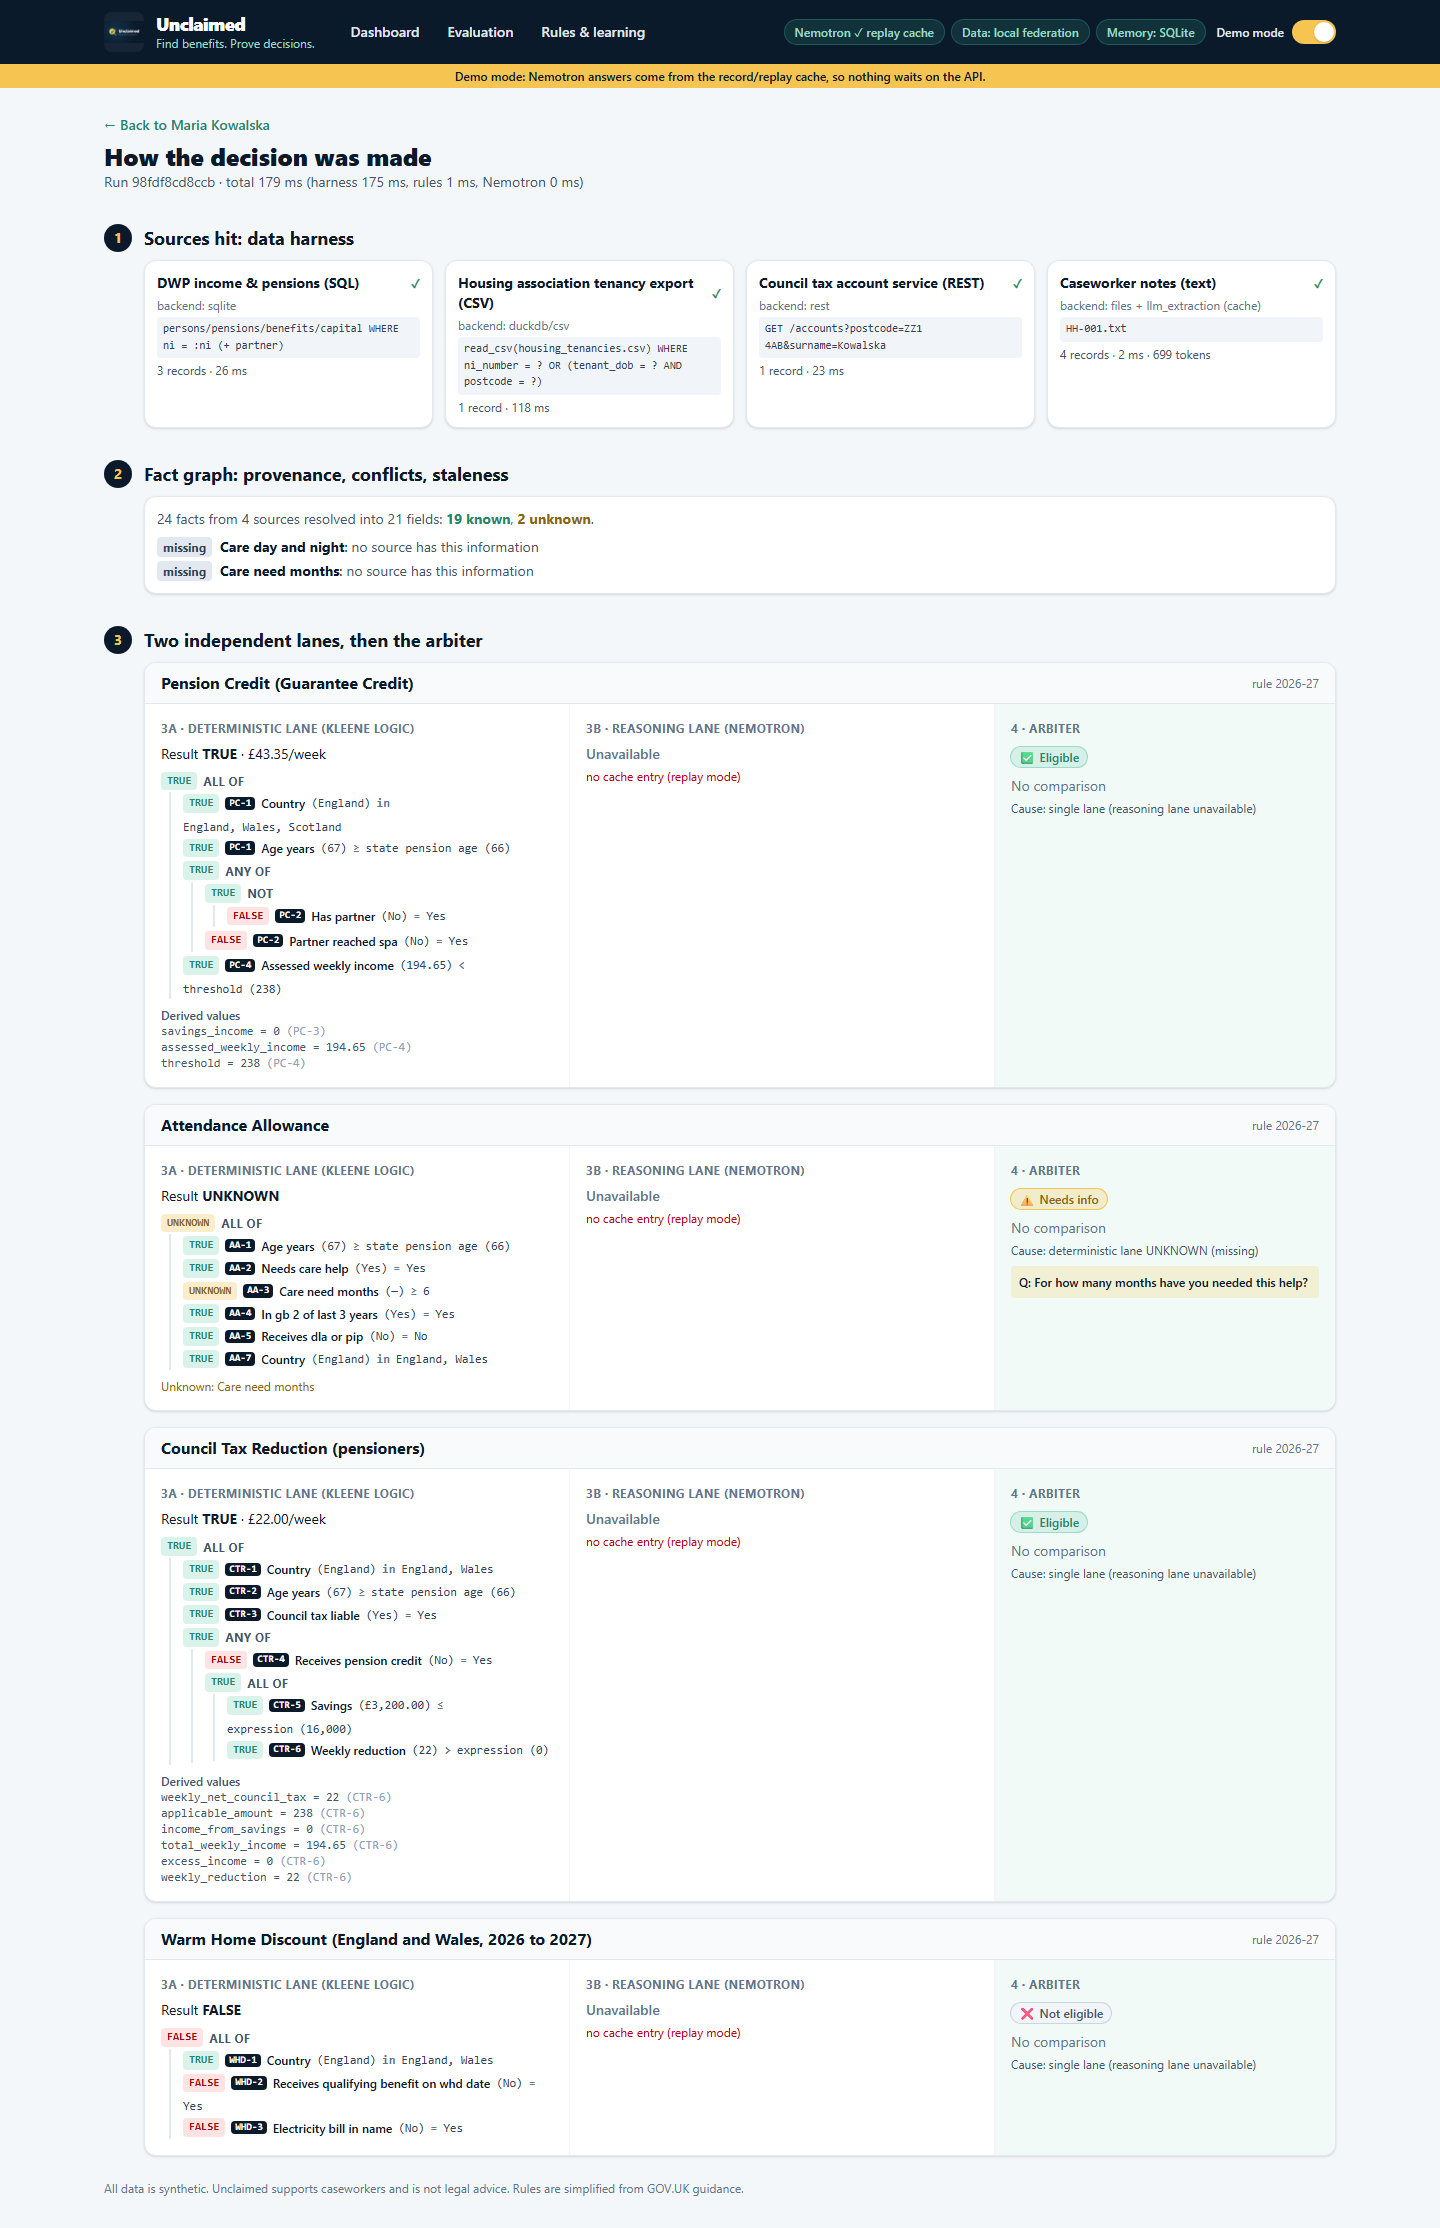
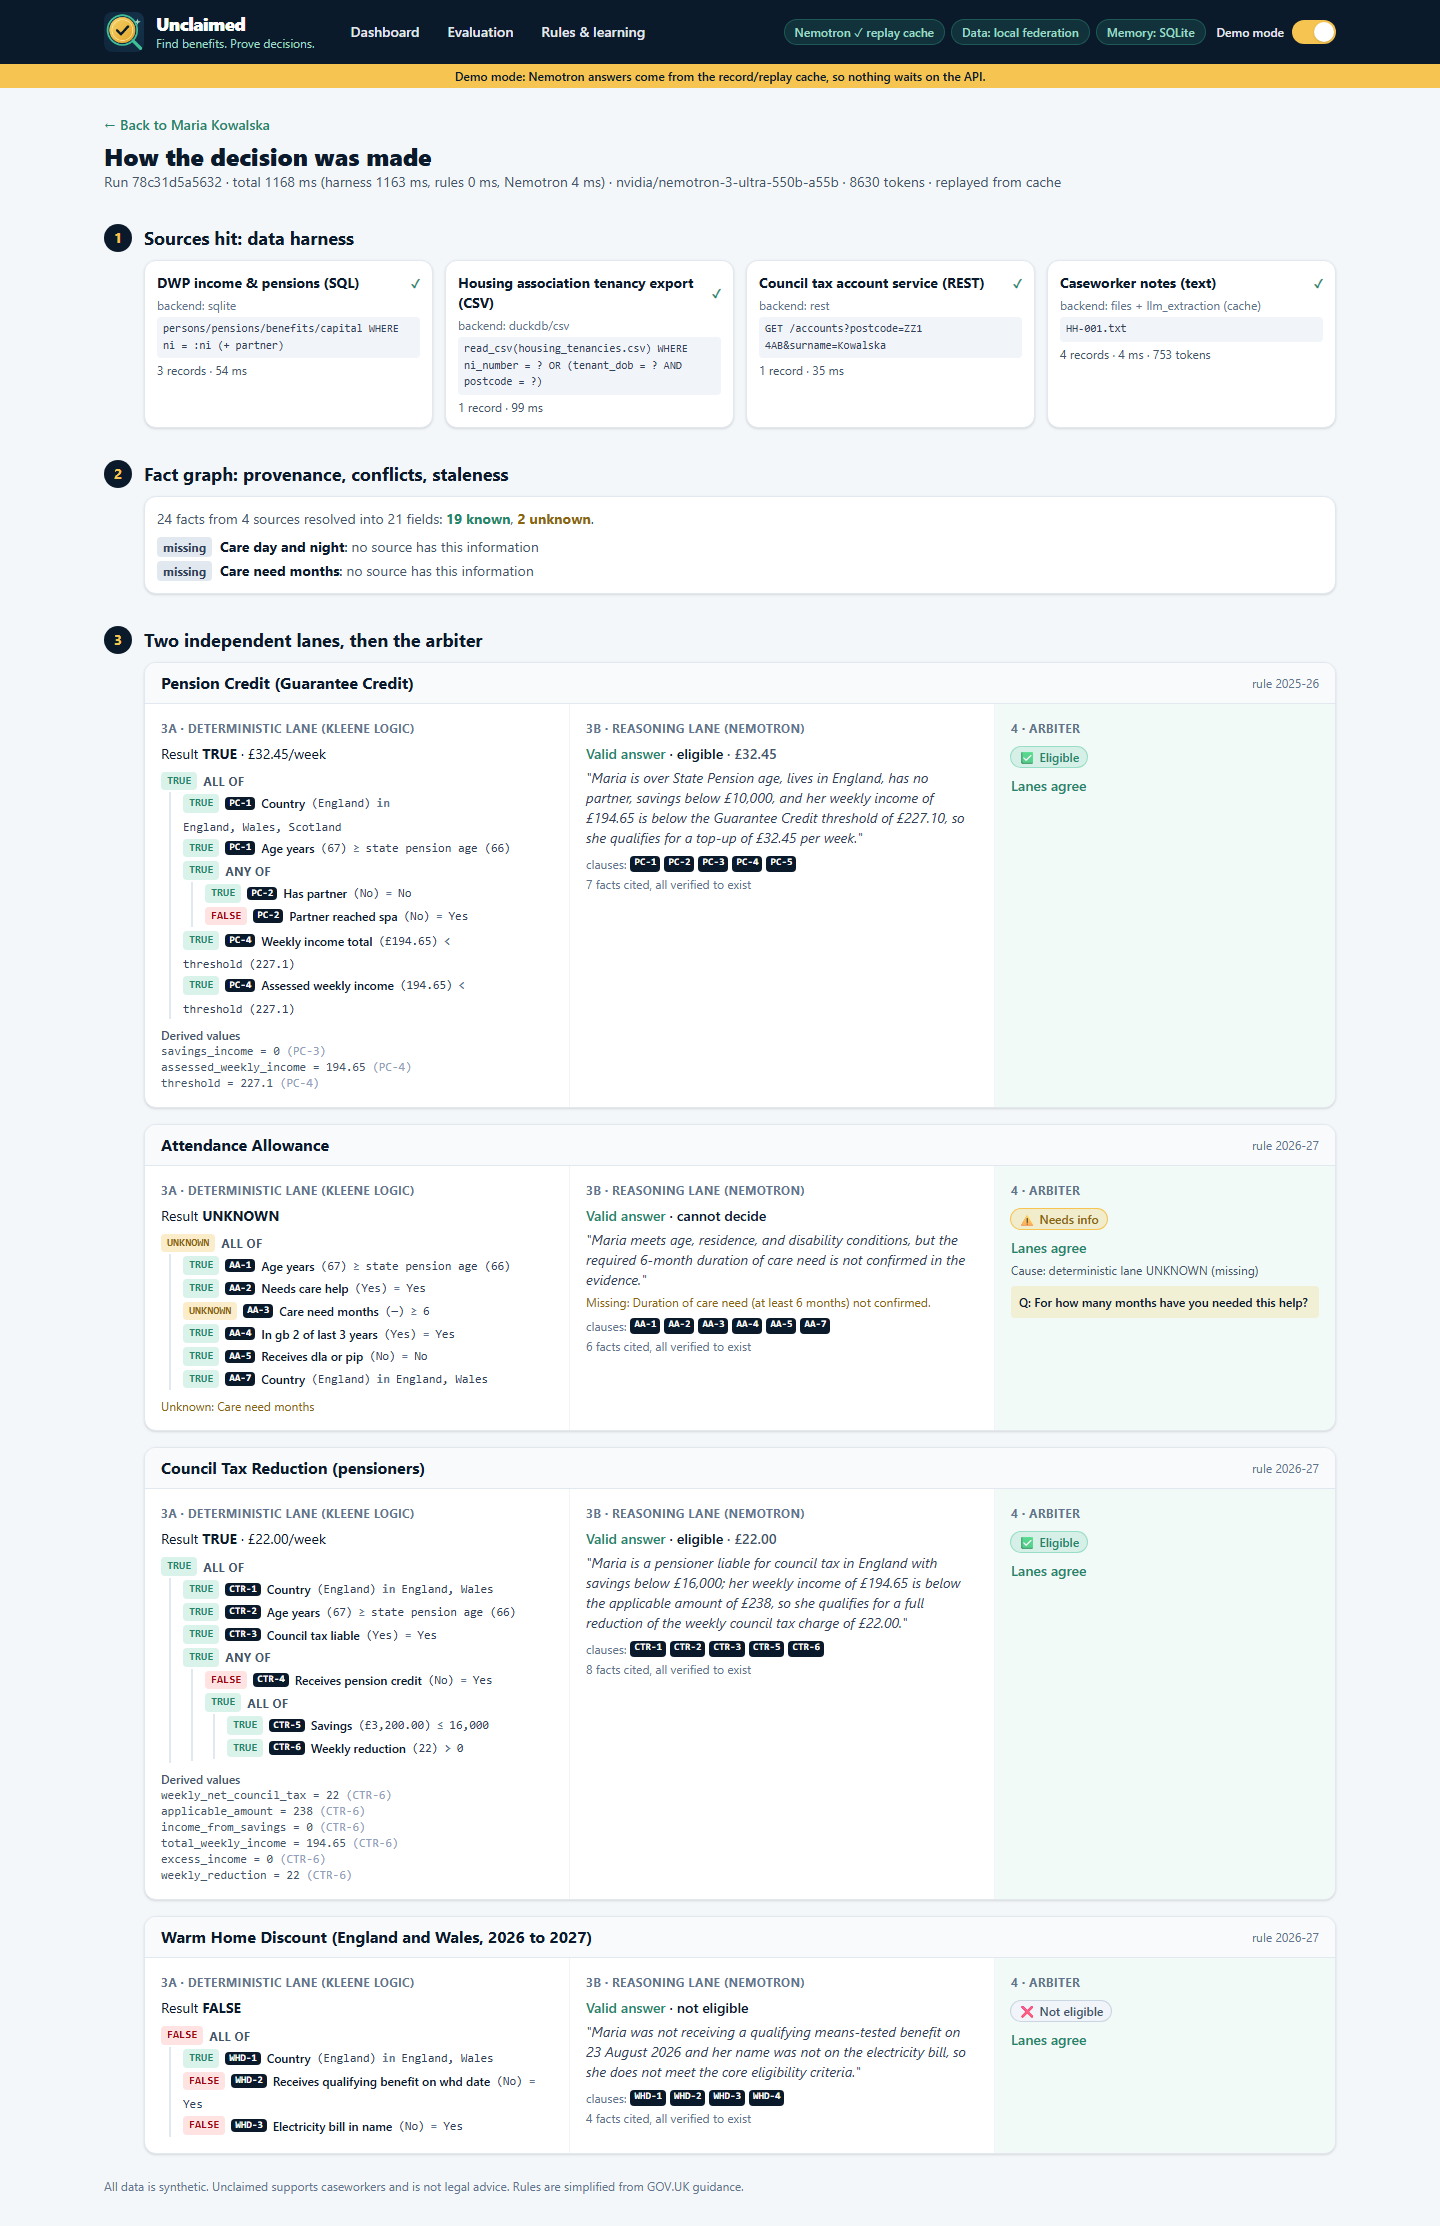
Demo verified offline: screenshots, demo script figures, README screenshots

diff --git a/docs/DEMO_SCRIPT.md b/docs/DEMO_SCRIPT.md
@@ -16,7 +16,7 @@ Type the inputs below exactly as written. The replay cache was recorded with the
 
 > "Every year, billions in pension top-ups, disability and council-tax support go unclaimed. The rules are scattered across documents, the facts sit in separate systems, and caseworkers check by hand. Unclaimed is for the welfare-rights caseworker. Here are 70 synthetic households, checked against four UK schemes, and the money we found per month."
 
-Point at the **£/month found** tile and the **Needs info** count.
+Point at the **£/month found** tile (≈ £14,042/month after a reset) and the **Needs info** count.
 
 ## 2 · Maria (0:20–1:20) — Household view
 
@@ -24,7 +24,7 @@ Point at the **£/month found** tile and the **Needs info** count.
 
 > "Maria is 67, lives alone, rents, small pension. Four schemes, four different answers."
 
-- **Pension Credit ✅ £187.85/month.** Click **Why?**
+- **Pension Credit ✅ £140.62/month** (£32.45/week). The header shows *rules Pension 2025-26*: the demo starts on last year's rate pack. Click **Why?**
   > "Every result is proven. Here's the GOV.UK clause, with its link, and here are the exact records: DWP pension record, as of April 2026. Notice the housing export said £191, but that record is from 2024, so it was flagged out of date and ignored."
 - **Council Tax Reduction ✅ £95.33/month.**
   > "Council tax: the account came from the council's REST API, single-person discount applied."
@@ -37,7 +37,7 @@ Point at the **£/month found** tile and the **Needs info** count.
 
 **Type in the Attendance Allowance answer box:** months = `7`, note = `Daughter has helped her wash and dress since March 2026` → **Save answer**.
 
-> "The answer is stored in memory with caseworker provenance, and the case re-runs. Attendance Allowance flips to eligible, at least £76.70 a week. Maria's total goes up."
+> "The answer is stored in memory with caseworker provenance, and the case re-runs. Attendance Allowance flips to eligible: £332.37 a month (at least the £76.70/week lower rate). Maria's total goes from £235.95 to £568.32 a month."
 
 **Go back** (← All households) → search `HH-036` → open **Hilda Ellis**. Pension Credit shows ❌ (income £237.99/week, rule pack 2025-26).
 
@@ -47,9 +47,13 @@ Point at the **£/month found** tile and the **Needs info** count.
 
 → **Propose rule patch**.
 
-> "A decision correction becomes a rule patch. Nemotron proposes the smallest change, the new 2026-27 rate, and it's only accepted if the full regression suite passes: every labelled household plus the rule examples. Zero regressions, cases fixed: accepted. Hilda now gets Pension Credit."
+> "A decision correction becomes a rule patch. Nemotron proposes the smallest change, the new 2026-27 single rate. It's only accepted if the full regression suite passes: 70 labelled households plus the rule examples. Before 77 of 81, after 80 of 81, zero regressions, three cases fixed: accepted. Hilda is now eligible. It's only pennies a week, but Pension Credit of any amount unlocks other help. And notice Nemotron left the couple rate alone because it had no evidence for it. The remaining failing example is exactly that: the next correction."
 
-Point at **Regression gate** (before → after, regressions 0) and **Proposed changes**.
+Wait about 5 seconds for the patch result.
+
+Point at **Regression gate** (77/81 → 80/81, regressions 0, fixed 3) and **Proposed changes**.
+
+Optional (5 s): go back to Maria → **Re-assess**. Pension Credit now uses the patched 2026-27 rate: **£187.85/month**.
 
 ## 4 · Trace view (2:00–2:20)
 
@@ -61,9 +65,7 @@ Point at **Regression gate** (before → after, regressions 0) and **Proposed ch
 
 **Click:** **Evaluation** in the nav.
 
-> "We measured it. Same Nemotron model, given the raw data and the policy: that's a standard agent. Look at the wrong yes's, the errors that create overpayment debt, and escalation recall: knowing when not to answer."
-
-Read the two headline numbers from the table (they are in EVAL.md).
+> "We measured it on 280 decisions. The same Nemotron model, given the raw data and the policy, is the standard agent: 21 wrong yes's, the errors that create overpayment debt, and it missed over a third of the cases that needed a human. Unclaimed: zero wrong decisions, and it escalated every case that needed it. To be honest, the rule engine alone also scores perfectly here. The Nemotron lane is our independent cross-check against mis-compiled rules and mis-read notes."
 
 ## 6 · Pitch (2:40–2:50)
 

diff --git a/README.md b/README.md
@@ -28,7 +28,16 @@ For each household, Unclaimed:
 
 > *"Unclaimed helps caseworkers find benefits households are entitled to. It makes decisions it can prove, refuses to guess when evidence is missing, and gets better with every correction — and we measured it against a standard AI agent."*
 
-<!-- SCREENSHOTS -->
+## Screenshots
+
+| Caseload dashboard | Maria: proven decisions + one question |
+|---|---|
+| ![Dashboard](docs/screenshots/dashboard.png) | ![Household](docs/screenshots/household.png) |
+| **Trace: sources → fact graph → two lanes → arbiter** | **Learning loop: Nemotron rule patch through the regression gate** |
+| ![Trace](docs/screenshots/trace.png) | ![Learning](docs/screenshots/learning.png) |
+
+![Evaluation](docs/screenshots/evaluation.png)
+
 
 ## Architecture
 
